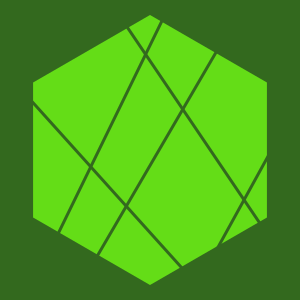
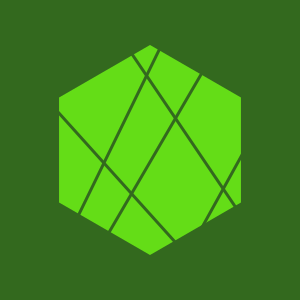
Adjustments.

Changed region(s): [[0.09, 0.03, 0.9, 0.96], [0.48, 0.69, 0.51, 0.72], [0.45, 0.72, 0.48, 0.75]]

diff --git a/out/dsntk-logo.html b/out/dsntk-logo.html
@@ -7,48 +7,48 @@
 <body>
   <svg width="700.0" height="700.0" xmlns="http://www.w3.org/2000/svg">
     <rect x="0.0" y="0.0" width="700.0" height="700.0" stroke="none" fill="#33691E"/>
-    <path d="M 622.8,192.5 L 350.0,35.0 L 77.2,192.5 L 77.2,507.5 L 350.0,665.0 L 622.8,507.5 Z" stroke="none" fill="#64DD17"/>
-    <line x1="77.2" y1="239.8" x2="460.2" y2="665.0" stroke="#33691E" stroke-width="7.0" stroke-linecap="square"/>
-    <line x1="277.6" y1="35.0" x2="622.8" y2="545.3" stroke="#33691E" stroke-width="7.0" stroke-linecap="square"/>
-    <line x1="384.6" y1="35.0" x2="77.2" y2="665.0" stroke="#33691E" stroke-width="7.0" stroke-linecap="square"/>
-    <line x1="554.8" y1="35.0" x2="187.5" y2="665.0" stroke="#33691E" stroke-width="7.0" stroke-linecap="square"/>
-    <line x1="624.8" y1="365.8" x2="460.2" y2="665.0" stroke="#33691E" stroke-width="7.0" stroke-linecap="square"/>
+    <path d="M 562.2,227.5 L 350.0,105.0 L 137.8,227.5 L 137.8,472.5 L 350.0,595.0 L 562.2,472.5 Z" stroke="none" fill="#64DD17"/>
+    <line x1="137.8" y1="264.2" x2="435.8" y2="595.0" stroke="#33691E" stroke-width="7.0" stroke-linecap="square"/>
+    <line x1="293.6" y1="105.0" x2="562.2" y2="501.9" stroke="#33691E" stroke-width="7.0" stroke-linecap="square"/>
+    <line x1="376.9" y1="105.0" x2="137.8" y2="595.0" stroke="#33691E" stroke-width="7.0" stroke-linecap="square"/>
+    <line x1="509.2" y1="105.0" x2="223.6" y2="595.0" stroke="#33691E" stroke-width="7.0" stroke-linecap="square"/>
+    <line x1="564.2" y1="362.2" x2="435.8" y2="595.0" stroke="#33691E" stroke-width="7.0" stroke-linecap="square"/>
   </svg>
   <svg width="700.0" height="700.0" xmlns="http://www.w3.org/2000/svg">
     <rect x="0.0" y="0.0" width="700.0" height="700.0" stroke="none" fill="#01579B"/>
-    <path d="M 622.8,192.5 L 350.0,35.0 L 77.2,192.5 L 77.2,507.5 L 350.0,665.0 L 622.8,507.5 Z" stroke="none" fill="#00B0FF"/>
-    <line x1="77.2" y1="239.8" x2="460.2" y2="665.0" stroke="#01579B" stroke-width="7.0" stroke-linecap="square"/>
-    <line x1="277.6" y1="35.0" x2="622.8" y2="545.3" stroke="#01579B" stroke-width="7.0" stroke-linecap="square"/>
-    <line x1="384.6" y1="35.0" x2="77.2" y2="665.0" stroke="#01579B" stroke-width="7.0" stroke-linecap="square"/>
-    <line x1="554.8" y1="35.0" x2="187.5" y2="665.0" stroke="#01579B" stroke-width="7.0" stroke-linecap="square"/>
-    <line x1="624.8" y1="365.8" x2="460.2" y2="665.0" stroke="#01579B" stroke-width="7.0" stroke-linecap="square"/>
+    <path d="M 562.2,227.5 L 350.0,105.0 L 137.8,227.5 L 137.8,472.5 L 350.0,595.0 L 562.2,472.5 Z" stroke="none" fill="#00B0FF"/>
+    <line x1="137.8" y1="264.2" x2="435.8" y2="595.0" stroke="#01579B" stroke-width="7.0" stroke-linecap="square"/>
+    <line x1="293.6" y1="105.0" x2="562.2" y2="501.9" stroke="#01579B" stroke-width="7.0" stroke-linecap="square"/>
+    <line x1="376.9" y1="105.0" x2="137.8" y2="595.0" stroke="#01579B" stroke-width="7.0" stroke-linecap="square"/>
+    <line x1="509.2" y1="105.0" x2="223.6" y2="595.0" stroke="#01579B" stroke-width="7.0" stroke-linecap="square"/>
+    <line x1="564.2" y1="362.2" x2="435.8" y2="595.0" stroke="#01579B" stroke-width="7.0" stroke-linecap="square"/>
   </svg>
   <svg width="700.0" height="700.0" xmlns="http://www.w3.org/2000/svg">
     <rect x="0.0" y="0.0" width="700.0" height="700.0" stroke="none" fill="#4A148C"/>
-    <path d="M 622.8,192.5 L 350.0,35.0 L 77.2,192.5 L 77.2,507.5 L 350.0,665.0 L 622.8,507.5 Z" stroke="none" fill="#EA80FC"/>
-    <line x1="77.2" y1="239.8" x2="460.2" y2="665.0" stroke="#4A148C" stroke-width="7.0" stroke-linecap="square"/>
-    <line x1="277.6" y1="35.0" x2="622.8" y2="545.3" stroke="#4A148C" stroke-width="7.0" stroke-linecap="square"/>
-    <line x1="384.6" y1="35.0" x2="77.2" y2="665.0" stroke="#4A148C" stroke-width="7.0" stroke-linecap="square"/>
-    <line x1="554.8" y1="35.0" x2="187.5" y2="665.0" stroke="#4A148C" stroke-width="7.0" stroke-linecap="square"/>
-    <line x1="624.8" y1="365.8" x2="460.2" y2="665.0" stroke="#4A148C" stroke-width="7.0" stroke-linecap="square"/>
+    <path d="M 562.2,227.5 L 350.0,105.0 L 137.8,227.5 L 137.8,472.5 L 350.0,595.0 L 562.2,472.5 Z" stroke="none" fill="#EA80FC"/>
+    <line x1="137.8" y1="264.2" x2="435.8" y2="595.0" stroke="#4A148C" stroke-width="7.0" stroke-linecap="square"/>
+    <line x1="293.6" y1="105.0" x2="562.2" y2="501.9" stroke="#4A148C" stroke-width="7.0" stroke-linecap="square"/>
+    <line x1="376.9" y1="105.0" x2="137.8" y2="595.0" stroke="#4A148C" stroke-width="7.0" stroke-linecap="square"/>
+    <line x1="509.2" y1="105.0" x2="223.6" y2="595.0" stroke="#4A148C" stroke-width="7.0" stroke-linecap="square"/>
+    <line x1="564.2" y1="362.2" x2="435.8" y2="595.0" stroke="#4A148C" stroke-width="7.0" stroke-linecap="square"/>
   </svg>
   <svg width="700.0" height="700.0" xmlns="http://www.w3.org/2000/svg">
     <rect x="0.0" y="0.0" width="700.0" height="700.0" stroke="none" fill="#BF360C"/>
-    <path d="M 622.8,192.5 L 350.0,35.0 L 77.2,192.5 L 77.2,507.5 L 350.0,665.0 L 622.8,507.5 Z" stroke="none" fill="#FF9E80"/>
-    <line x1="77.2" y1="239.8" x2="460.2" y2="665.0" stroke="#BF360C" stroke-width="7.0" stroke-linecap="square"/>
-    <line x1="277.6" y1="35.0" x2="622.8" y2="545.3" stroke="#BF360C" stroke-width="7.0" stroke-linecap="square"/>
-    <line x1="384.6" y1="35.0" x2="77.2" y2="665.0" stroke="#BF360C" stroke-width="7.0" stroke-linecap="square"/>
-    <line x1="554.8" y1="35.0" x2="187.5" y2="665.0" stroke="#BF360C" stroke-width="7.0" stroke-linecap="square"/>
-    <line x1="624.8" y1="365.8" x2="460.2" y2="665.0" stroke="#BF360C" stroke-width="7.0" stroke-linecap="square"/>
+    <path d="M 562.2,227.5 L 350.0,105.0 L 137.8,227.5 L 137.8,472.5 L 350.0,595.0 L 562.2,472.5 Z" stroke="none" fill="#FF9E80"/>
+    <line x1="137.8" y1="264.2" x2="435.8" y2="595.0" stroke="#BF360C" stroke-width="7.0" stroke-linecap="square"/>
+    <line x1="293.6" y1="105.0" x2="562.2" y2="501.9" stroke="#BF360C" stroke-width="7.0" stroke-linecap="square"/>
+    <line x1="376.9" y1="105.0" x2="137.8" y2="595.0" stroke="#BF360C" stroke-width="7.0" stroke-linecap="square"/>
+    <line x1="509.2" y1="105.0" x2="223.6" y2="595.0" stroke="#BF360C" stroke-width="7.0" stroke-linecap="square"/>
+    <line x1="564.2" y1="362.2" x2="435.8" y2="595.0" stroke="#BF360C" stroke-width="7.0" stroke-linecap="square"/>
   </svg>
   <svg width="700.0" height="700.0" xmlns="http://www.w3.org/2000/svg">
     <rect x="0.0" y="0.0" width="700.0" height="700.0" stroke="none" fill="#F57F17"/>
-    <path d="M 622.8,192.5 L 350.0,35.0 L 77.2,192.5 L 77.2,507.5 L 350.0,665.0 L 622.8,507.5 Z" stroke="none" fill="#FFEA00"/>
-    <line x1="77.2" y1="239.8" x2="460.2" y2="665.0" stroke="#F57F17" stroke-width="7.0" stroke-linecap="square"/>
-    <line x1="277.6" y1="35.0" x2="622.8" y2="545.3" stroke="#F57F17" stroke-width="7.0" stroke-linecap="square"/>
-    <line x1="384.6" y1="35.0" x2="77.2" y2="665.0" stroke="#F57F17" stroke-width="7.0" stroke-linecap="square"/>
-    <line x1="554.8" y1="35.0" x2="187.5" y2="665.0" stroke="#F57F17" stroke-width="7.0" stroke-linecap="square"/>
-    <line x1="624.8" y1="365.8" x2="460.2" y2="665.0" stroke="#F57F17" stroke-width="7.0" stroke-linecap="square"/>
+    <path d="M 562.2,227.5 L 350.0,105.0 L 137.8,227.5 L 137.8,472.5 L 350.0,595.0 L 562.2,472.5 Z" stroke="none" fill="#FFEA00"/>
+    <line x1="137.8" y1="264.2" x2="435.8" y2="595.0" stroke="#F57F17" stroke-width="7.0" stroke-linecap="square"/>
+    <line x1="293.6" y1="105.0" x2="562.2" y2="501.9" stroke="#F57F17" stroke-width="7.0" stroke-linecap="square"/>
+    <line x1="376.9" y1="105.0" x2="137.8" y2="595.0" stroke="#F57F17" stroke-width="7.0" stroke-linecap="square"/>
+    <line x1="509.2" y1="105.0" x2="223.6" y2="595.0" stroke="#F57F17" stroke-width="7.0" stroke-linecap="square"/>
+    <line x1="564.2" y1="362.2" x2="435.8" y2="595.0" stroke="#F57F17" stroke-width="7.0" stroke-linecap="square"/>
   </svg>
 </body>
 </html>

diff --git a/src/main.rs b/src/main.rs
@@ -79,7 +79,7 @@ fn create_svg(width: f64, height: f64, line_width: f64, palette: Palette) -> Htm
 
   let w_2 = width / 2.0;
   let h_2 = height / 2.0;
-  let radius = (if w_2 < h_2 { w_2 } else { h_2 }) * 0.9;
+  let radius = (if w_2 < h_2 { w_2 } else { h_2 }) * 0.7;
 
   let points = create_path_points(w_2, h_2, radius);
   let coeff = points[3].1 - points[2].1;
